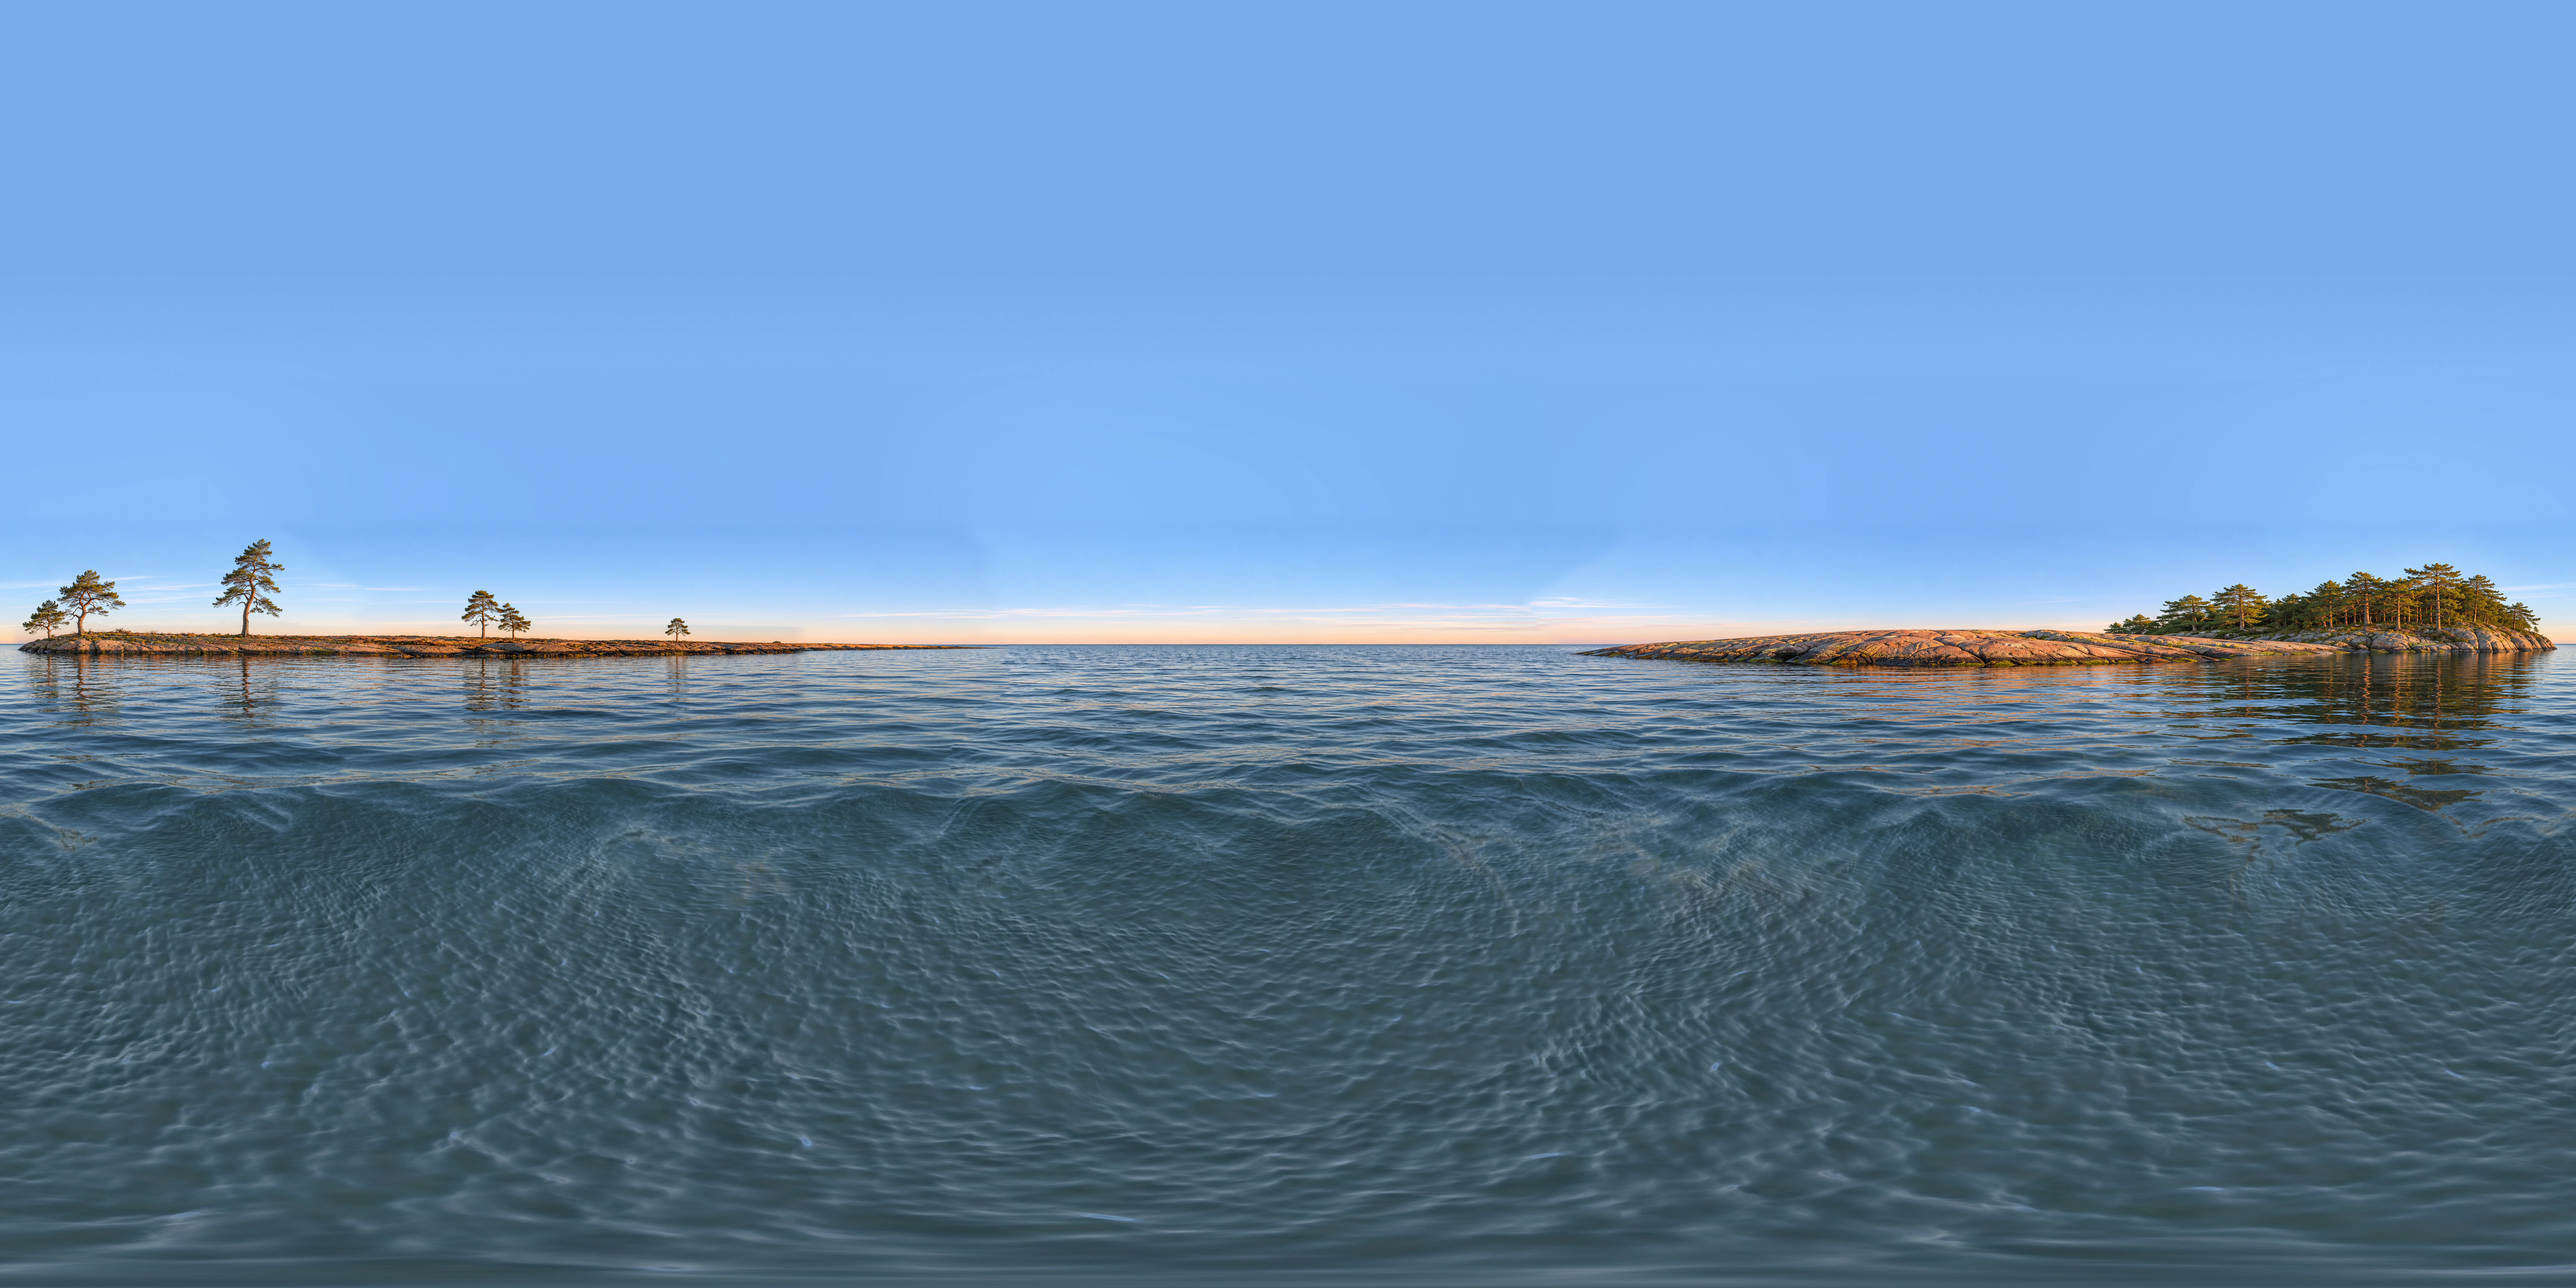
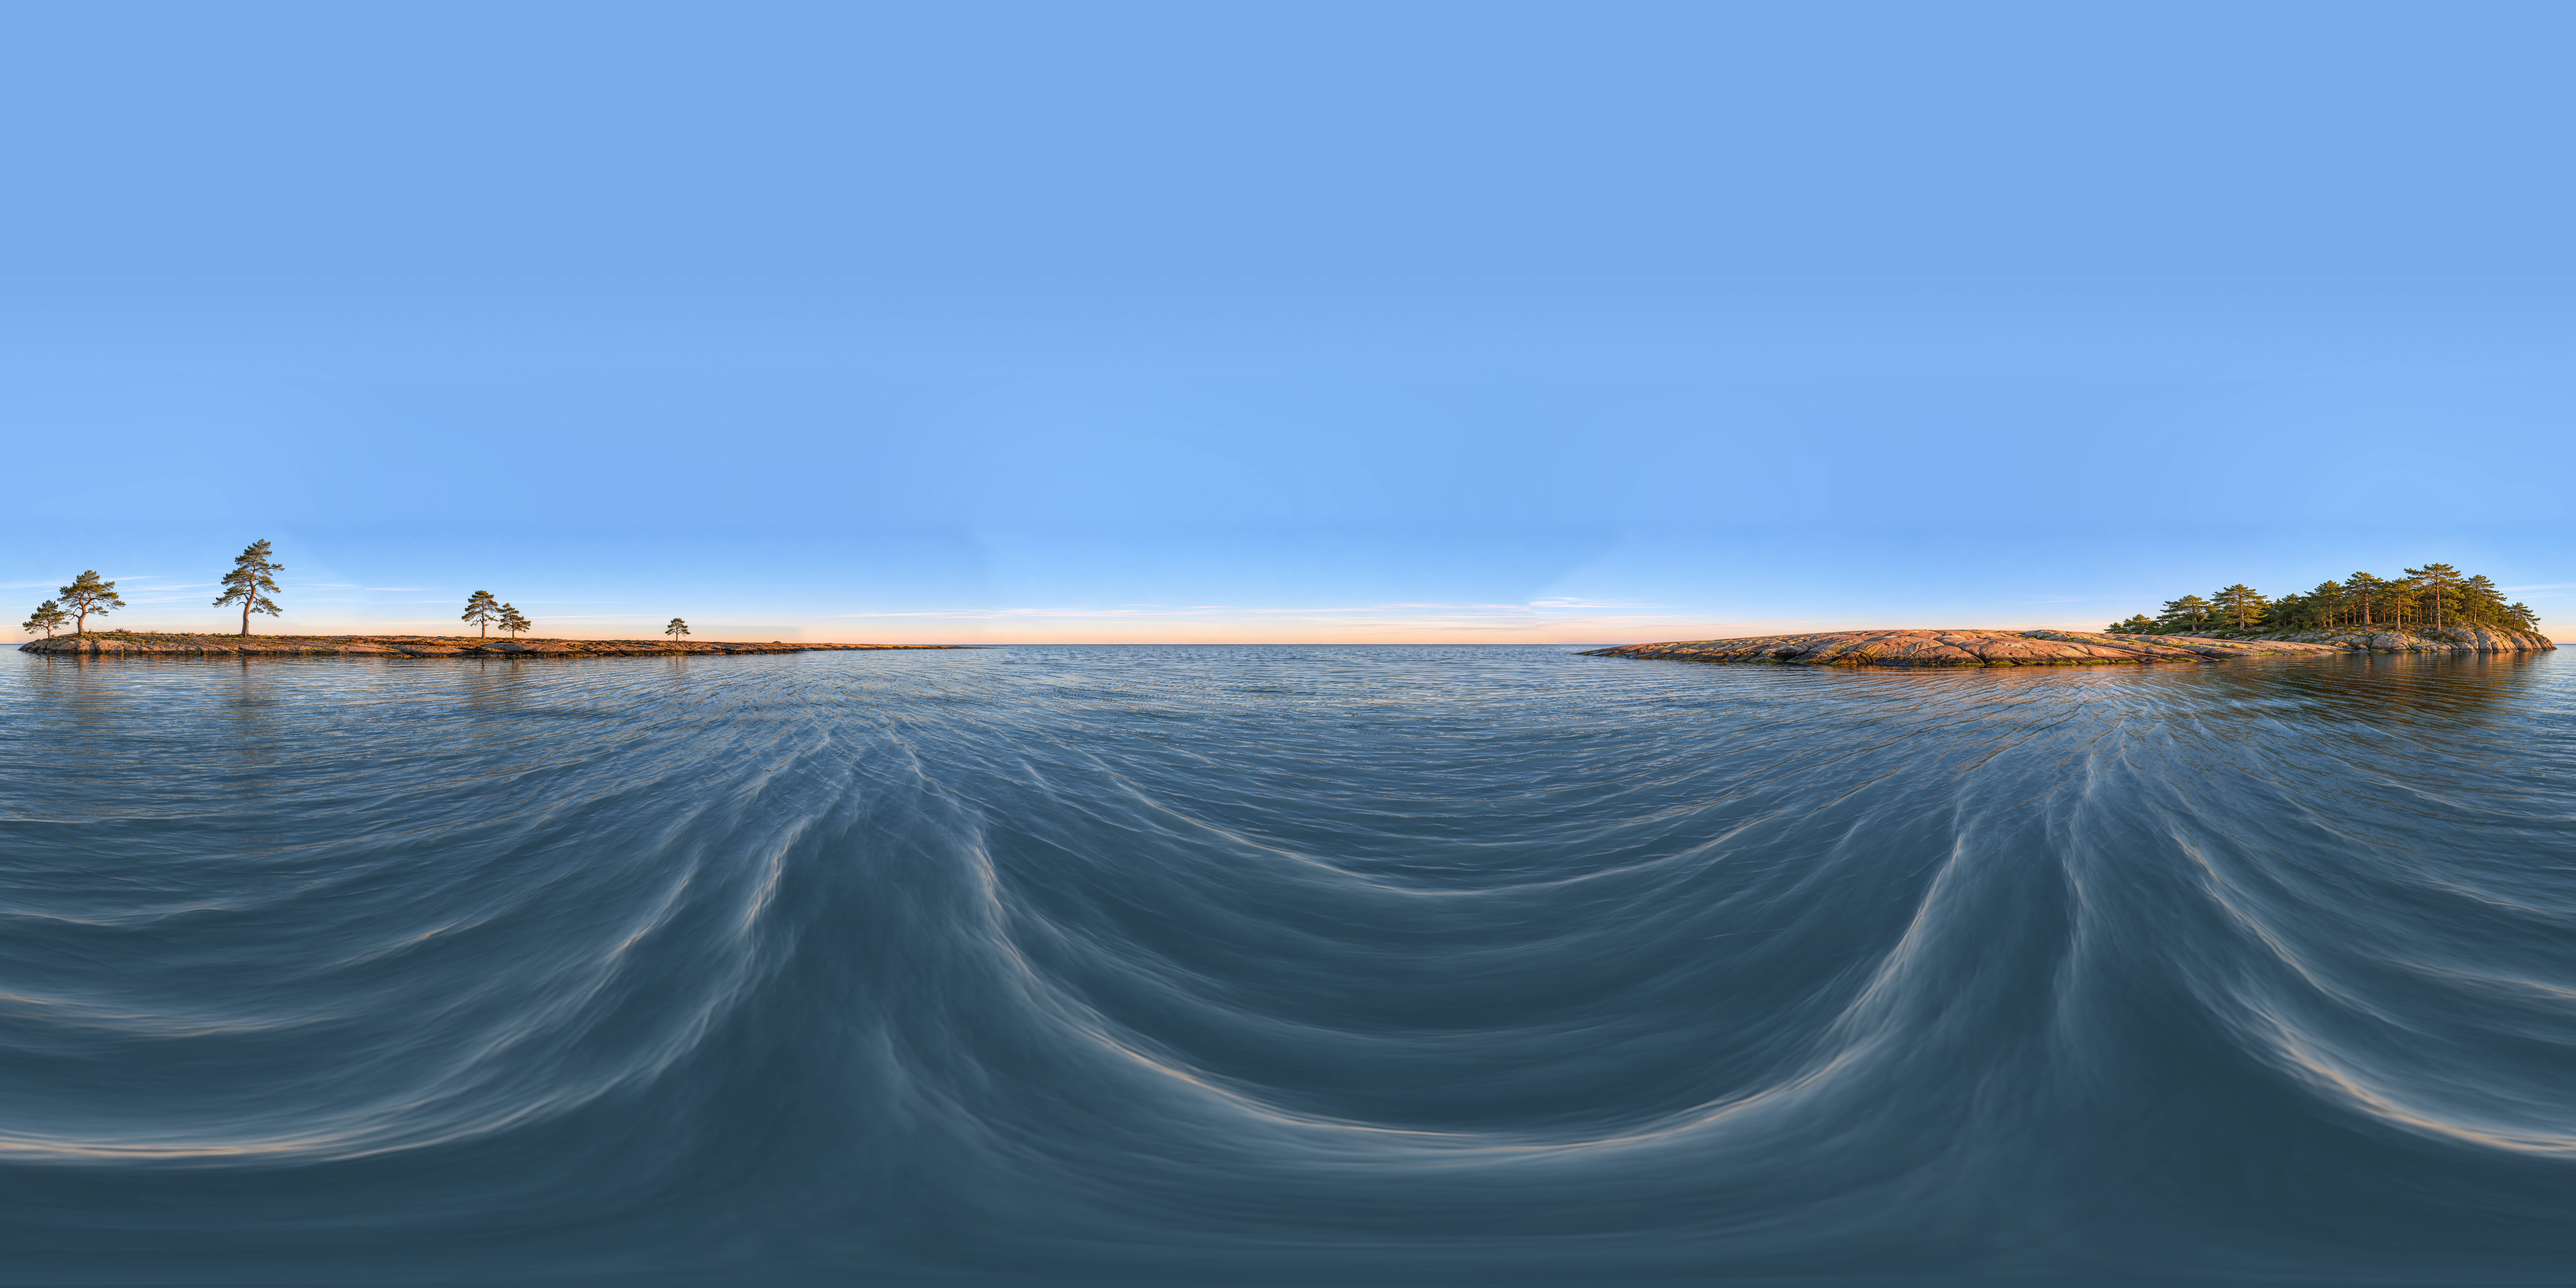
Give the archipelago sea one continuous wave direction

Changed region(s): [[0.0, 0.5, 1.0, 1.0]]

diff --git a/docs/user-guide/spatial-map.md b/docs/user-guide/spatial-map.md
@@ -389,7 +389,9 @@ Med **Skärgårdsmorgon** i ljust tema ser du öppet hav från en plats strax
 ovanför vattnet. Vrid blicken ett kvarts varv åt höger för att se en
 solbelyst granithäll.
 Bakom dig löper ett smalt sund mellan en ö med höga, täta tallar och en låg
-udde med glesa tallar. Titta upp mot morgonhimlen eller ner på krusningarna.
+udde med glesa tallar. Tittar du upp ser du morgonhimlen. Rakt ner ser du
+några låga vågor med blankt vatten emellan. Vågorna följer samma vind över
+hela fjärden, så du ser dem från sidan när du vrider dig mot granithällen.
 När du panorerar förskjuts vattnet närmast dig medan horisonten ligger kvar.
 
 Atmosfär har mjuka mörka ljusfält; Dis och ljuspunkter har mörkt dis och
